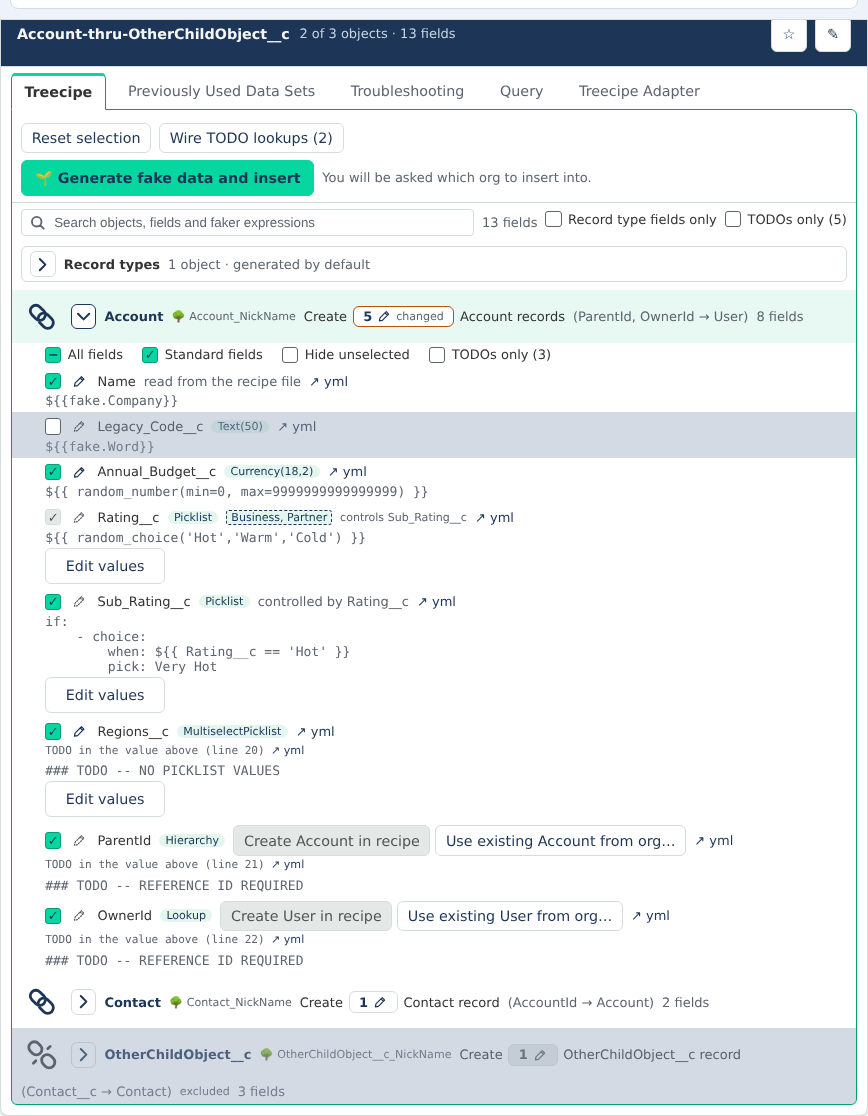
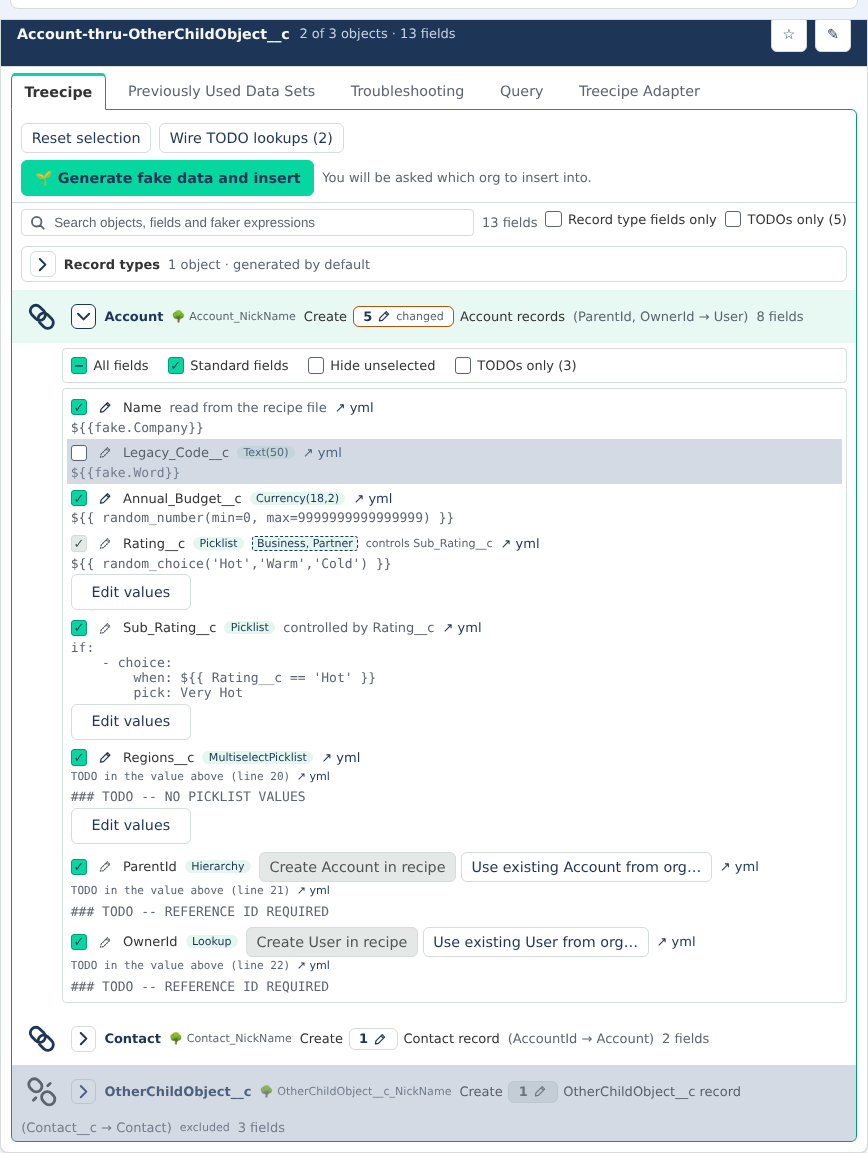
v3.165.0 — Recipe Cockpit: an expanded object's controls and fields sit in two bordered boxes, checkboxes under the ▸ (#494)
The controls row and a new treeFieldsBox are each bordered and padded, and
their left margin is derived from the object header's padding, chain-link
width and gap, so every checkbox starts where the ▸ does. A box with
nothing visible is hidden by CSS :has(). Layout only.

Claude-Session: https://claude.ai/code/session_01QDhJJDvQty7yS1FQrNPP8r

diff --git a/src/treecipe/src/RecipeCockpitService/tests/RecipeCockpitFieldBoxes.test.ts b/src/treecipe/src/RecipeCockpitService/tests/RecipeCockpitFieldBoxes.test.ts
@@ -1,0 +1,143 @@
+import * as matchers from 'jest-extended';
+expect.extend(matchers);
+
+import * as path from 'path';
+
+jest.mock('vscode', () => ({
+    window: { createWebviewPanel: jest.fn(), withProgress: jest.fn(), showWarningMessage: jest.fn(), showInputBox: jest.fn() },
+    commands: { executeCommand: jest.fn() },
+    ViewColumn: { One: 1 },
+    ProgressLocation: { Notification: 15 },
+    Uri: { file: (filePath: string) => ({ scheme: 'file', fsPath: filePath }) }
+}), { virtual: true });
+
+import {
+    RecipeCockpitService,
+    IRecipeCockpitRecipeViewModel,
+    RECIPE_COCKPIT_TREE_OBJECT_HEADER_PADDING_REM,
+    RECIPE_COCKPIT_TREE_OBJECT_INCLUDE_WIDTH_REM,
+    RECIPE_COCKPIT_TREE_HEADER_GAP_REM,
+    RECIPE_COCKPIT_TREE_OBJECT_TOGGLE_OFFSET_REM,
+    RECIPE_COCKPIT_TREE_FIELD_BOX_PADDING_REM,
+    RECIPE_COCKPIT_TREE_FIELD_ROW_INSET_REM,
+    RECIPE_COCKPIT_TREE_FIELD_BOX_MARGIN_LEFT
+} from '../RecipeCockpitService';
+import { runPanelScript } from './RecipeCockpitPanelHarness';
+
+/*
+    #494: an expanded object's controls row and its field rows are each a bordered, padded box, and
+    the checkboxes in both start under the object's ▸. The history workspace's Account tree is used:
+    Account writes eight fields, three of its rows carry a TODO.
+*/
+
+const HISTORY_WORKSPACE_ROOT = path.join(__dirname, 'mocks', 'historyWorkspace');
+const HISTORY_GENERATED_RECIPES_PATH = path.join(HISTORY_WORKSPACE_ROOT, 'treecipe', 'GeneratedRecipes');
+const CURRENT_RUN_FOLDER_NAME = 'recipe-2026-09-20T10-00-00';
+
+const loadRecipe = (): IRecipeCockpitRecipeViewModel => RecipeCockpitService.loadRecipeRunByRuns(
+    RecipeCockpitService.findGeneratedRecipeRuns(HISTORY_GENERATED_RECIPES_PATH),
+    HISTORY_WORKSPACE_ROOT,
+    CURRENT_RUN_FOLDER_NAME
+).recipeViewModel;
+
+const shellHtml = () => RecipeCockpitService.buildWebviewShellHtml('testNonce');
+
+// EVERY RULE WRITTEN FOR EXACTLY THIS SELECTOR, JOINED
+const ruleBody = (selector: string): string => {
+    const html = shellHtml();
+    const bodies: string[] = [];
+    let start = html.indexOf('\n    ' + selector + ' {');
+    while (start > -1) {
+        const open = html.indexOf('{', start);
+        bodies.push(html.slice(open + 1, html.indexOf('}', open)));
+        start = html.indexOf('\n    ' + selector + ' {', open);
+    }
+    expect(bodies.length).toBeGreaterThan(0);
+    return bodies.join('\n');
+};
+
+describe('RecipeCockpitService, an object\'s fields and controls in bordered boxes (#494)', () => {
+
+    describe('the panel script', () => {
+
+        type Panel = ReturnType<typeof runPanelScript>;
+
+        const drawRecipe = (): Panel => {
+            const panel = runPanelScript({});
+            panel.postToPanel({ command: 'recipeData', recipe: loadRecipe(), renderSequence: 3 });
+            panel.postToPanel({ command: 'loadPhase', message: '' });
+            panel.expandAllTrees();
+            return panel;
+        };
+
+        const objectNamed = (panel: Panel, objectApiName: string) => panel.objectElements().find((objectElement: any) => panel.objectNameOf(objectElement) === objectApiName);
+
+        it('puts every field row of an expanded object in one fields box, after the controls row', () => {
+
+            const panel = drawRecipe();
+            const account = objectNamed(panel, 'Account');
+            panel.expandObject(account);
+
+            const bodyChildren = panel.objectBodyOf(account).children;
+            const controlsIndex = bodyChildren.findIndex((childElement: any) => childElement.classList.contains('treeFieldSelectAllRow'));
+            const fieldsBoxes = bodyChildren.filter((childElement: any) => childElement.classList.contains('treeFieldsBox'));
+
+            expect(controlsIndex).toBeGreaterThan(-1);
+            expect(fieldsBoxes).toHaveLength(1);
+            expect(bodyChildren.indexOf(fieldsBoxes[0])).toBe(controlsIndex + 1);
+            expect(fieldsBoxes[0].children.length).toBeGreaterThan(0);
+            expect(fieldsBoxes[0].children.every((childElement: any) => childElement.classList.contains('treeField'))).toBeTrue();
+            expect(panel.findAll(panel.objectBodyOf(account), 'treeField')).toEqual(fieldsBoxes[0].children);
+
+        });
+
+        it('builds neither box for an object that was never expanded', () => {
+
+            const panel = drawRecipe();
+            const account = objectNamed(panel, 'Account');
+
+            expect(panel.findAll(panel.objectBodyOf(account), 'treeFieldsBox')).toEqual([]);
+            expect(panel.findAll(panel.objectBodyOf(account), 'treeFieldSelectAllRow')).toEqual([]);
+
+        });
+
+    });
+
+    describe('the stylesheet', () => {
+
+        it('lines a field checkbox up with the object header\'s ▸', () => {
+
+            expect(RECIPE_COCKPIT_TREE_OBJECT_TOGGLE_OFFSET_REM).toBeCloseTo(RECIPE_COCKPIT_TREE_OBJECT_HEADER_PADDING_REM + RECIPE_COCKPIT_TREE_OBJECT_INCLUDE_WIDTH_REM + RECIPE_COCKPIT_TREE_HEADER_GAP_REM, 6);
+
+            expect(ruleBody('.treeObjectHeader')).toContain(`padding: 0.35rem ${RECIPE_COCKPIT_TREE_OBJECT_HEADER_PADDING_REM}rem;`);
+            expect(ruleBody('.treeObjectHeader, .treeFieldHeader')).toContain(`gap: ${RECIPE_COCKPIT_TREE_HEADER_GAP_REM}rem;`);
+            expect(ruleBody('.treeObjectInclude, .treeObjectIncludeSpacer')).toContain(`width: ${RECIPE_COCKPIT_TREE_OBJECT_INCLUDE_WIDTH_REM}rem;`);
+
+            // MARGIN + 1px BORDER + BOX PADDING + ROW INSET LANDS ON THE ▸
+            const marginMatch = /^calc\(([0-9.]+)rem - 1px\)$/.exec(RECIPE_COCKPIT_TREE_FIELD_BOX_MARGIN_LEFT);
+            expect(marginMatch).not.toBeNull();
+            const marginRem = Number((marginMatch as RegExpExecArray)[1]);
+            expect(marginRem + RECIPE_COCKPIT_TREE_FIELD_BOX_PADDING_REM + RECIPE_COCKPIT_TREE_FIELD_ROW_INSET_REM).toBeCloseTo(RECIPE_COCKPIT_TREE_OBJECT_TOGGLE_OFFSET_REM, 6);
+
+            const boxRule = ruleBody('.treeFieldSelectAllRow, .treeFieldsBox');
+            expect(boxRule).toContain(`margin: 0.35rem ${RECIPE_COCKPIT_TREE_OBJECT_HEADER_PADDING_REM}rem 0.35rem ${RECIPE_COCKPIT_TREE_FIELD_BOX_MARGIN_LEFT};`);
+            expect(boxRule).toContain('border: 1px solid var(--sdt-border);');
+            expect(boxRule).toContain('box-sizing: border-box;');
+
+            expect(ruleBody('.treeFieldsBox')).toContain(`padding: ${RECIPE_COCKPIT_TREE_FIELD_BOX_PADDING_REM}rem;`);
+            expect(ruleBody('.treeField')).toContain(`padding: 0.25rem 0.35rem 0.25rem ${RECIPE_COCKPIT_TREE_FIELD_ROW_INSET_REM}rem;`);
+            expect(ruleBody('.treeFieldSelectAllRow')).toContain(`padding: ${RECIPE_COCKPIT_TREE_FIELD_BOX_PADDING_REM + RECIPE_COCKPIT_TREE_FIELD_ROW_INSET_REM}rem;`);
+
+        });
+
+        it('pads both boxes on every side and draws no box with nothing visible in it', () => {
+
+            expect(RECIPE_COCKPIT_TREE_FIELD_BOX_PADDING_REM).toBeGreaterThan(0);
+            expect(RECIPE_COCKPIT_TREE_FIELD_ROW_INSET_REM).toBeGreaterThan(0);
+            expect(shellHtml()).toContain('.treeFieldSelectAllRow:not(:has(> :not(.hidden))), .treeFieldsBox:not(:has(> .treeField:not(.hidden))) { display: none; }');
+
+        });
+
+    });
+
+});

diff --git a/src/treecipe/src/RecipeCockpitService/RecipeCockpitService.ts b/src/treecipe/src/RecipeCockpitService/RecipeCockpitService.ts
@@ -443,6 +443,15 @@ export const RECIPE_COCKPIT_ADD_FRIEND_ACTION_LABEL = '+ Add friend';
 // THE DEEPEST friends: LEVEL A NESTED ROW IS INDENTED FOR (#467); A DEEPER ONE IS DRAWN AT THIS INDENT, SO A CARD NEVER RUNS OFF A NARROW PANEL
 export const RECIPE_COCKPIT_MAX_DRAWN_NESTING_DEPTH = 8;
 export const RECIPE_COCKPIT_NESTING_INDENT_REM = 1.25;
+// AN OBJECT HEADER IS ITS PADDING, THE CHAIN LINK, ONE GAP, THEN THE ▸ (#494): THE FIELD CHECKBOXES START WHERE THE ▸ DOES
+export const RECIPE_COCKPIT_TREE_OBJECT_HEADER_PADDING_REM = 0.6;
+export const RECIPE_COCKPIT_TREE_OBJECT_INCLUDE_WIDTH_REM = 2.6;
+export const RECIPE_COCKPIT_TREE_HEADER_GAP_REM = 0.5;
+export const RECIPE_COCKPIT_TREE_OBJECT_TOGGLE_OFFSET_REM = RECIPE_COCKPIT_TREE_OBJECT_HEADER_PADDING_REM + RECIPE_COCKPIT_TREE_OBJECT_INCLUDE_WIDTH_REM + RECIPE_COCKPIT_TREE_HEADER_GAP_REM;
+// AN OBJECT'S CONTROLS ROW AND ITS FIELDS ARE EACH A BORDERED BOX (#494), PADDED INSIDE, WITH A ROW'S OWN INSET INSIDE THAT
+export const RECIPE_COCKPIT_TREE_FIELD_BOX_PADDING_REM = 0.25;
+export const RECIPE_COCKPIT_TREE_FIELD_ROW_INSET_REM = 0.25;
+export const RECIPE_COCKPIT_TREE_FIELD_BOX_MARGIN_LEFT = `calc(${Math.round(( RECIPE_COCKPIT_TREE_OBJECT_TOGGLE_OFFSET_REM - RECIPE_COCKPIT_TREE_FIELD_BOX_PADDING_REM - RECIPE_COCKPIT_TREE_FIELD_ROW_INSET_REM ) * 100) / 100}rem - 1px)`;
 export const RECIPE_COCKPIT_ADD_FRIEND_CONFIRM_LABEL = 'Add';
 export const RECIPE_COCKPIT_WIRE_LOOKUP_ACTION_LABEL = 'Wire to…';
 // AN EMPTY LOOKUP'S TWO DECISIONS (#421), EACH NAMING THE PARENT BETWEEN ITS PREFIX AND SUFFIX
@@ -19537,7 +19546,7 @@ ${this.buildPaletteCustomProperties()}
         margin: 0.6rem 0;
         overflow: hidden;
     }
-    .treeObjectHeader, .treeFieldHeader { display: flex; flex-wrap: wrap; align-items: center; gap: 0.5rem; }
+    .treeObjectHeader, .treeFieldHeader { display: flex; flex-wrap: wrap; align-items: center; gap: ${RECIPE_COCKPIT_TREE_HEADER_GAP_REM}rem; }
     .treeHeader {
         display: flex;
         flex-wrap: wrap;
@@ -19740,7 +19749,7 @@ ${this.buildPaletteCustomProperties()}
     .troubleshootingSubTabs.movingRight .troubleshootingSubTab::after, .troubleshootingSubTabs.movingLeft .troubleshootingSubTab.selected::after { transform-origin: right; }
     .troubleshootingSubTabs.movingLeft .troubleshootingSubTab::after, .troubleshootingSubTabs.movingRight .troubleshootingSubTab.selected::after { transform-origin: left; }
     .troubleshootingSubTabs.noMotion .troubleshootingSubTab::after { transition: none; }
-    .treeObjectHeader { padding: 0.35rem 0.6rem; align-items: center; }
+    .treeObjectHeader { padding: 0.35rem ${RECIPE_COCKPIT_TREE_OBJECT_HEADER_PADDING_REM}rem; align-items: center; }
     .treeObject { position: relative; }
     .treeObject.treeObjectNested { border-left: 2px solid var(--sdt-border); }
 ${Array.from({ length: RECIPE_COCKPIT_MAX_DRAWN_NESTING_DEPTH }, (unusedDepth, depthIndex) => `    .treeObject.treeObjectDepth${depthIndex + 1} { margin-left: ${( depthIndex + 1 ) * RECIPE_COCKPIT_NESTING_INDENT_REM}rem; }`).join('\n')}
@@ -19755,8 +19764,8 @@ ${Array.from({ length: RECIPE_COCKPIT_MAX_DRAWN_NESTING_DEPTH }, (unusedDepth, d
     .treeObjectInclude, .treeObjectIncludeSpacer {
         box-sizing: border-box;
         flex: none;
-        width: 2.6rem;
-        height: 2.6rem;
+        width: ${RECIPE_COCKPIT_TREE_OBJECT_INCLUDE_WIDTH_REM}rem;
+        height: ${RECIPE_COCKPIT_TREE_OBJECT_INCLUDE_WIDTH_REM}rem;
     }
     .treeObjectInclude { position: relative; z-index: 2; padding: 0.15rem; }
     .treeObjectIncludeSpacer { display: inline-block; }
@@ -19927,8 +19936,16 @@ ${Array.from({ length: RECIPE_COCKPIT_MAX_DRAWN_NESTING_DEPTH }, (unusedDepth, d
     .treeFriendChip { display: inline-flex; align-items: center; gap: 0.25rem; font-size: 0.85em; }
     .treeChipEmoji { flex: none; }
     .treeObjectBody { padding-bottom: 0.25rem; }
-    .treeField { padding: 0.25rem 0.6rem 0.25rem 2.1rem; }
-    .treeFieldSelectAllRow { padding: 0.25rem 0.6rem 0.25rem 2.1rem; display: flex; flex-wrap: wrap; align-items: center; gap: 0.25rem 1.2rem; }
+    .treeFieldSelectAllRow, .treeFieldsBox {
+        box-sizing: border-box;
+        margin: 0.35rem ${RECIPE_COCKPIT_TREE_OBJECT_HEADER_PADDING_REM}rem 0.35rem ${RECIPE_COCKPIT_TREE_FIELD_BOX_MARGIN_LEFT};
+        border: 1px solid var(--sdt-border);
+        border-radius: 4px;
+    }
+    .treeFieldSelectAllRow:not(:has(> :not(.hidden))), .treeFieldsBox:not(:has(> .treeField:not(.hidden))) { display: none; }
+    .treeFieldsBox { padding: ${RECIPE_COCKPIT_TREE_FIELD_BOX_PADDING_REM}rem; }
+    .treeField { padding: 0.25rem 0.35rem 0.25rem ${RECIPE_COCKPIT_TREE_FIELD_ROW_INSET_REM}rem; border-radius: 3px; }
+    .treeFieldSelectAllRow { padding: ${RECIPE_COCKPIT_TREE_FIELD_BOX_PADDING_REM + RECIPE_COCKPIT_TREE_FIELD_ROW_INSET_REM}rem; display: flex; flex-wrap: wrap; align-items: center; gap: 0.25rem 1.2rem; }
     .treeFieldSelectAllCheck { display: inline-flex; align-items: center; gap: 0.4rem; }
     .treeFieldSelectAllLabel { cursor: pointer; }
     .treeFieldSelectAllCheck.disabled .treeFieldSelectAllLabel { color: var(--sdt-muted); cursor: not-allowed; }
@@ -24419,11 +24436,16 @@ ${Object.entries(RECIPE_COCKPIT_VERB_BUTTON_VERBS).map(([className, verb]) => ` 
             if (hasSelectableFields || treeObjectState.todoCount > 0) {
                 treeObjectState.bodyElement.appendChild(buildSelectAllFieldsElement(treeObjectState, hasSelectableFields));
             }
-            treeObjectState.fieldStates.forEach(function (fieldState) {
-                fieldState.rowElement = buildTreeFieldRow(treeObjectState, fieldState);
-                applyTreeFieldVisibility(fieldState);
-                treeObjectState.bodyElement.appendChild(fieldState.rowElement);
-            });
+            // THE FIELDS ARE ONE BORDERED BOX (#494), THEIR CHECKBOXES UNDER THE OBJECT'S ▸
+            if (treeObjectState.fieldStates.length > 0) {
+                const fieldsBoxElement = createElement('div', 'treeFieldsBox');
+                treeObjectState.fieldStates.forEach(function (fieldState) {
+                    fieldState.rowElement = buildTreeFieldRow(treeObjectState, fieldState);
+                    applyTreeFieldVisibility(fieldState);
+                    fieldsBoxElement.appendChild(fieldState.rowElement);
+                });
+                treeObjectState.bodyElement.appendChild(fieldsBoxElement);
+            }
             treeObjectState.isBodyBuilt = true;
             if (drawObjectFieldSelection(treeObjectState)) { drawStructureMatchCount(treeObjectState.treeState); }
         }

diff --git a/src/treecipe/src/RecipeCockpitService/tests/RecipeCockpitExcludeFields.test.ts b/src/treecipe/src/RecipeCockpitService/tests/RecipeCockpitExcludeFields.test.ts
@@ -922,7 +922,8 @@ describe('RecipeCockpitService, unticking fields in the Treecipe tab (#220)', ()
             expect(panel.findAll(panel.objectBodyOf(contact), 'treeFieldAll')).toEqual([]);
             expect(panel.findAll(panel.objectBodyOf(contact), 'treeFieldNone')).toEqual([]);
             expect(panel.objectBodyOf(contact).children[0].classList.contains('treeFieldSelectAllRow')).toBeTrue();
-            expect(panel.objectBodyOf(contact).children[1].classList.contains('treeField')).toBeTrue();
+            expect(panel.objectBodyOf(contact).children[1].classList.contains('treeFieldsBox')).toBeTrue();
+            expect(panel.objectBodyOf(contact).children[1].children[0].classList.contains('treeField')).toBeTrue();
 
         });
 

diff --git a/CLAUDE.md b/CLAUDE.md
@@ -346,6 +346,7 @@ User runs command (Cmd+Shift+P)
 - **Every Recipe Cockpit confirmation is asked INSIDE the panel, and the host keeps the decision** (#349) — where the bullets above say "a host modal" or "the modal", the cockpit now calls `RecipeCockpitService.confirmInPanel(message, { detail, isDestructive? }, ...buttonLabels)`, never `showWarningMessage` with `modal: true` (`RecipeCockpitConfirmDialog.test.ts` scans the source for one, and counts the 21 `confirmInPanel` call sites and the one `confirmInPanelWithCheckbox`). It answers exactly as the modal did — the label chosen or `undefined` — so every executor still plans and checks its guards again AFTER the answer. `confirmInPanelWithCheckbox` (#402, only Deploy fields… calls it) adds `checkboxLabel` to the request; the panel draws one `check` button and its label between the body and the buttons, in the Tab cycle, and answers `isChecked` beside `choice`; it resolves `{chosenLabel, isChecked}`, `isChecked` true only for a box ticked under an offered button, and an `isChecked` that is present and not a boolean is Cancel for either call. It posts `confirmRequest {confirmationId, renderSequence, title, summary, badge?, warnings, sections, buttons, isDestructive}` (#457: `confirmInPanel` takes an `IRecipeCockpitConfirmContent` — a summary and warnings always on screen, a badge for the target org's type, and sections `{title, count?, lines}` folded until opened, their lines built on first open; there is no `detail`. `RecipeCockpitConfirmContent.buildRequestParts` splits line breaks and drops empty sections and blank warnings; the panel's `readConfirmContent` answers Cancel for any part out of shape; `drawConfirmLines` draws each warning and section line as its own bullet (a summary only when it holds more than one statement), a line ending with ":" leading in the indented lines under it as a nested list; a section toggle is in the Tab cycle between the body and the check box; an edited expression the Treecipe Adapter will run is a warning, never only folded; the executor suites read the parts flattened into one `detail` through `RecipeCockpitConfirmContent.flatten`): every string the host's, the id `crypto.randomBytes(16)` hex held in the static `pendingConfirmation` (outside the panel state, since replacing that state is a Cancel). The panel draws it in `#cockpitDialogHost`, a static sibling after `#cockpitBody` (so `buildWebviewShellHtml` still takes only a nonce), with `textContent` only: `role="dialog"`, or `"alertdialog"` when `isDestructive` (an org write or a file overwrite with no undo: insert, deploys, assign, scratch org, retrieve, an overwriting Generate permission set), `aria-modal`, a `tabindex="0"` body that scrolls (`max-height: 60vh`, `white-space: pre-wrap`), the host's buttons (first `primary`) then Cancel, the rest of the cockpit `inert`, focus on Cancel for an alertdialog and the first button otherwise, Tab trapped, Escape Cancel, focus back to the opener. It answers `confirmResponse {confirmationId, choice}`; the router routes it only under the pending id, and `settlePendingConfirmation` spends the id once and reads any `choice` that is not an integer index of an offered button as Cancel. ONE at a time: a newer request answers the open one Cancel. `cancelPendingConfirmation` runs on `ready` (and a confirmation is never replayed), on a new model post, on a failure to draw (not a `runtime` throw), on dispose and on a reopen; with no acknowledged model, or no panel, `confirmInPanel` is Cancel at once, and the panel answers Cancel to a request for another `renderSequence` without drawing it. A HIDDEN panel has no document (`retainContextWhenHidden` is off), so `confirmInPanel` on a panel whose `visible` is `false` reveals it, warns `RECIPE_COCKPIT_CONFIRM_HIDDEN_REFUSAL` and is Cancel, and `onDidChangeViewState` to hidden cancels an open one at once — otherwise the action would wait on a dropped post while holding its run lock. Nothing reloads under an open confirmation: the generate-only run whose reload #349 held in `deferredReloadFocus` (run by `scheduleReloadHeldForConfirmation`) is gone with #375, and both went with it. `routePanelMessage` reads the static `pendingConfirmation` for `confirmResponse` — the one place it reads state outside its arguments; `settlePendingConfirmation` checks the id again. Dialog-only text is not run through `escapeForNotification` (textContent makes it inert; the escapes would show); text that also reaches a notification still is. The backdrop is `--sdt-dialog-backdrop`, composited by the contrast test with the dialog's edge held to 3:1. The palette commands (`ExtensionCommandService`) keep VS Code's modal, and quick picks and input boxes stay VS Code UI. A confirmation's ORG is its own part (#480, `IRecipeCockpitConfirmOrg {alias?, username}` on the content, one line each, never a `Org:` line of the summary; the deploy, retrieve and assignment builders take it instead of a label), drawn on its own `confirmOrg` line: the alias bold in `--sdt-accent`, the username monospace in `--sdt-muted`, then the badge. **Change org…** (`RECIPE_COCKPIT_CONFIRM_CHANGE_ORG_LABEL`, `secondary` compact, in the Tab cycle before the section toggles) is drawn only when the request carries `canChangeOrg`, which `askInPanel` sets only for options with `org` AND `changeOrg {restartMessage, isSandboxOnly}` asked INSIDE a panel action: every routed action, a notification's follow-up included, runs through `runPanelAction` (a test holds `executePanelAction` to its one caller), which gives only the kinds in `RECIPE_COCKPIT_ORG_CHANGE_ACTION_KINDS` an `AsyncLocalStorage` context and runs every other kind under `exit()`, because the first `run()` turns on Node's async context tracking for the whole extension host. Its answer, `confirmResponse {confirmationId, changeOrg: true}`, is Cancel to the action; `settlePendingConfirmation` records the restart on that context, and only once the action has ENDED (its locks released in its own finally) `changeOrgAndRestart` refuses while anything holds the selection (`RECIPE_COCKPIT_CHANGE_ORG_BUSY_REFUSAL`), asks through `promptAndSelectDataOrg` (its `selectionBeforePrompt` lets it replace the selection it was asked over, and only that one; `sandboxOnlyReason` for a write) under `isOrgPromptOpen`, and routes `restartMessage` again through `routePanelMessage` (an `orgIndex` key gets the new selection's index), so the action re-plans and asks again against the new org. Offered on the four retrieves (read), the four deploys, Assign permission sets… and the tree insert (writes); NOT on the Treecipe Adapter's, whose held records and snapshots belong to one org, which show the org part only. The executor suites answer through `tests/RecipeCockpitConfirmationAnswers.ts`, which hands `confirmInPanel` to their `showWarningMessage` mock with `inPanel: true`
 - **The Recipe Cockpit keeps the reader's place in `vscodeApi.setState`, and spends it ONCE** (#222) — `retainContextWhenHidden` stays off, so a hidden tab's document is thrown away and the host replays the model on `ready`; what the READER did lived only in the page. The panel saves NAMES only (run, scroll offset, whether the toolbar's org picker was in use, and per card: opened by the reader, tab, each tab's search as typed (`searchTexts`), Treecipe objects expanded by api name + nickname, open picklist rows, and whether the Record types section is expanded as the optional `isRecordTypesExpanded`; neither the Target Org Manager nor the Treecipes section folds, #355, #364), never a path, value or org. `readSavedPanelPlace` reads it once at script start inside a `try`; `takeRestorablePlace` spends it on the document's FIRST `recipeData` and applies it only when `selectedRunFolderName` matches, and nothing is saved before the place is spent (or the default draw would overwrite it). A LATER model in the same document of the run already on screen (a generate, the tree insert, Add friend reloading it) takes the place on screen instead (`takeSameRunPlace`, built by the same `buildPanelPlace` as a save) BEFORE `resetPanelState` drops it, and restores it the same way (#225); another run, or a model after a failed draw (`renderedSequence` null), starts fresh. Everything that asks the host (a picklist row, the org picker) is restored AFTER `rendered`, beside `focusTree`, which is applied after the restore and so wins; a picker the reader never used still lists no orgs. `savePanelPlace` is skipped while `isRestoringPlace`, so a restore saves once. A restore never posts `loadDataOrgs` by itself. The place is version 2 (#255): a version 1 place is read through `RECIPE_COCKPIT_TREE_TAB_RENAMES` (`structure` → `treecipe`, `dataByOrg` → `compare`, selected tab and search keys), by `normalizePanelPlace` and by the panel's `upgradePlace`, rather than dropped. A place of EITHER version can name a tab since removed (`RECIPE_COCKPIT_REMOVED_TREE_TABS`, `versions` since #265, `compare` and `dataByOrg` since #266, `recordTypes` since #321, applied after the renames on both sides; a card saved on `recordTypes` also opens with the Record types section expanded): its card opens on Treecipe, its search is dropped rather than moved onto another tab, and `expandedVersionRunFolderNames`, `statusFilter` and `expandedDataObjectApiNames` are no longer in the shape, so they are ignored. Removing another tab is adding its name to that list; the place version did not change. A picklist's open state is on the FIELD (`isPicklistExpanded`). Every saved field is type-checked and name-keyed lookups have no prototype; `RECIPE_COCKPIT_PANEL_PLACE_VERSION` is the shape, and a place of another shape is not read. Re-running **Open Recipe Cockpit** on an open panel for the same workspace reloads the run on screen (`loadRecipeRunByRuns` falls back to the newest when it is gone), keeps `dataOrgRequestSequence`, and carries no comparison, since there is none (#266). The same place is ALSO kept in `context.workspaceState` (`RECIPE_COCKPIT_PANEL_PLACE_STATE_KEY`, #230) so it survives a close and a window reload: every `savePanelPlace` posts `savePlace`, routed only for the run of the confirmed-drawn model and written at most once per `RECIPE_COCKPIT_PANEL_PLACE_PERSIST_DELAY` (500 ms) — never only on dispose, since a reload may not run `onDidDispose`, which flushes what is waiting. A panel opened with nothing to carry reads it through `normalizePanelPlace` (field-by-field, run a plain folder NAME, only the shape's fields kept, so no path, value or org is ever written), requests that run, and hands it over as `restorePlace` on the POSTED copy and every replay until that model's `rendered`; a run that is gone or a place that cannot be read is removed and the newest run opens. The panel's own `getState` wins over it. There is NO `WebviewPanelSerializer` and no `onWebviewPanel:` activation event, on purpose: a reload must never load a run or contact an org on its own, and a test asserts both
 - **A tree icon excludes an object and its children from GENERATION, and the recipe file is never written** (#219) — each Treecipe row of a card with a folder draws a `<button class="treeObjectInclude">` as the row's FIRST child, in front of the `▸` (#257); a row with no button (an iteration, or a card with no folder) gets an `aria-hidden` `treeObjectIncludeSpacer` of the same width, so every `▸` and name in a card lines up. Its glyph is the cockpit's first INLINE SVG, a CHAIN LINK: built by the panel script with `document.createElementNS` (one `<path>`, rotated by `RECIPE_COCKPIT_TREE_GLYPH_TRANSFORM`, whose `d` is `RECIPE_COCKPIT_TREE_LINKED_GLYPH_PATH` while included and `RECIPE_COCKPIT_TREE_BROKEN_GLYPH_PATH` once excluded, swapped on every `objectSelection` redraw), never from a markup string, stroked by CSS only from `--sdt-*` (joined `--sdt-accent` included, broken `--sdt-muted` excluded, broken and dashed auto-excluded) and fetching nothing, so the CSP, the nonce-only shell builder and `localResourceRoots: []` are unchanged. That is the rule for any later glyph: `createElementNS` and palette CSS, never an icon font, an image or an interpolated SVG string. The shell's only URL is the SVG namespace string, which the external-asset test allows by name. The state is never colour alone: shape, `aria-pressed`, title and a `treeExclusion` label all say it, and the click never toggles the row. An INCLUDED object named in the cascade's `disabledLookups` (another parent keeps it, its lookup to the excluded one is cut) is drawn IMPACTED (#449): `RECIPE_COCKPIT_TREE_IMPACTED_GLYPH_PATH` (one link joined, one pulled away) in `--sdt-changed`, the label `parent <Parent> excluded`, a title naming the cut lookups, `aria-pressed` still `true` and the icon still a click to exclude; the header count adds `· N impacted` and the Insert order line `(impacted)`. The panel's `indexObjectImpacts` reads it from `disabledLookups` alone (self-lookups and excluded objects skipped), so nothing new is posted or stored, and only the object whose own lookup was cut is marked, never its descendants The CASCADE is the host's (`RecipeCockpitObjectSelection.computeObjectSelection`, which imports nothing): it is the least set reachable from what the exclusion does not touch, so an object stays included if it is not a descendant of an excluded object, is a root, or keeps an included parent, and a self-lookup is never "another parent". Only DIRECT exclusions are stored, in `workspaceState` (`RECIPE_COCKPIT_OBJECT_SELECTION_STATE_KEY`, by tree FOLDER, names checked with `SalesforceApiName`, written with `Object.fromEntries`), so re-including a parent brings back exactly what it cut off. `applyObjectSelections` sets `tree.objectSelection` at post time ONLY when something is excluded, so an untouched card posts and generates exactly as before. Its counts cover the objects the card draws. The panel posts `setObjectIncluded {treeKey, objectApiName, nickname?, included}`, matched against `selectableObjectKeys` (inside `IRecipeCockpitTreeHistoryAllowLists`, so pending/active and reset with the rest). An object `parseRecipeSource` marks `hasIndistinctOccurrences` is never selectable. The host posts `objectSelection` tagged with `renderSequence`, and the panel redraws that card in place. An excluded row is dimmed by the `.excluded` class: an `::after` layer of `--sdt-excluded-overlay` (rgba, the palette's one non-hex token, composited by the contrast test) with `pointer-events: none`, under the icon's `z-index: 2`. The generate button on such a card resolves the copy at the click (`resolveRunFakerFilteredRecipe`) through `RecipeCockpitRecipeWriter.buildFilteredRecipe`, which drops excluded blocks and every later occurrence nested under them, drops lookups to them (by the wrapper's lookups or by a nickname value), moves an orphaned faker-js friend under its closest remaining lower-level parent (#46's rule, levels from the wrapper's `RelationshipDetail.level`) wired by nickname, or to the top, and reads its result back. Anything it refuses is a warning naming the tree, never the whole tree generated. The copy rides as the command's SECOND argument, which `runFakerGenerationByRecipeFile` type-checks and accepts only with a recipe path. It loads the recipe first, runs the copy from a temporary folder outside the workspace, keeps it as `filteredRecipe-*` beside `originalRecipe-*`, and records `excludedObjectApiNames` in `datasetSource.json`. The tree insert leaves an excluded object out too (`listTreeInsertObjectApiNames`), so readiness never checks it and nothing inserts it
+- **An expanded object's controls row and its fields are two bordered boxes, and every checkbox in them starts under the object's ▸** (#494) — `setTreeObjectExpanded` appends field rows to one `treeFieldsBox` after the `treeFieldSelectAllRow`; both boxes take `RECIPE_COCKPIT_TREE_FIELD_BOX_MARGIN_LEFT`, derived from the header's padding, chain-link width and gap constants, so a change to the object header moves the boxes with it. A box with nothing visible is hidden by CSS `:has()`, never by script
 - **A field checkbox leaves a field out of GENERATION and of the tree insert, and the host decides which fields may be unticked** (#220) — each Treecipe field row with a recipe line, on a card with a folder, draws a `<button role="checkbox" class="treeFieldInclude">` with `aria-checked`. An expanded object draws one **All fields** box above its field rows (#410, replacing #220's All / None, which #343 hid): `createButton('check', 'treeFieldInclude treeFieldSelectAll')` with a label, `aria-checked` `true`/`false`/`mixed` counted over the fields with a recipe line that no lock holds (so after "untick all" it reads unticked while locked fields stay ticked), hidden while every field is locked, disabled on an excluded object, not drawn for an iteration or a card `canSelectFields` refuses; a click posts `setAllFieldsIncluded` (`included` is `false` only from `true`) and the box redraws only from the host's answer. A **Standard fields** box beside it (#477) is the same box over the fields `RecipeCockpitService.isStandardFieldApiName` reads as standard (not ending in `__c`, case-insensitive; the panel injects the same suffix): it posts `setAllFieldsIncluded` with `fieldScope: 'standard'` (any other scope is refused) and the host changes only standard fields, never a custom field's tick, and never frees a controlling field whose ticked dependent is custom. Right of it, **Hide unselected** (#483) is the object's own panel-only filter over the rows whose box reads unticked (`isTreeFieldUnticked`, a `parent excluded` lock included): it refilters that object alone, turns itself off when nothing is unticked or the object is excluded, and is the place's optional `hideUnselectedObjectKeys`; the insert confirmation's **Left out, per object** section (`buildInsertLeftOutLines`) lists excluded objects and, per object, every field left out (unticked, or a lookup cut by an excluded parent), the rows Hide unselected hides. The row ends with the object's own **TODOs only** (panel-only, a click refilters that object alone through `filterTreeObjectRows` and never re-runs the card's expand budget, the place's optional `todosOnlyObjectKeys`, disabled with `RECIPE_COCKPIT_NO_OBJECT_TODOS_NOTE` on an object with no TODO), so it is built for an object with a selectable field OR a TODO, and each box hides on its own. The panel posts `setFieldIncluded {treeKey, objectApiName, nickname?, fieldApiName, included}`, matched against `selectableFieldKeys` (inside `IRecipeCockpitTreeHistoryAllowLists`, pending/active like the rest, built from `listSelectableFieldApiNames`: fields with a `lineNumber`), `setAllFieldsIncluded` against `selectableObjectKeys`, and `resetTreeSelection {treeKey}` against `nameableTreeKeys`. The unticked fields are stored beside #219's exclusions under the same key, now `RECIPE_COCKPIT_OBJECT_SELECTION_VERSION` 2 (`excludedFieldApiNamesByFolderName`: folder → object → fields, written with `Object.fromEntries`, every name checked with `SalesforceApiName` on read; a version 1 entry reads as nothing unticked). `buildObjectFieldSelection` is the ONE derivation of what generation leaves out and what is LOCKED: `parent excluded` (a lookup the object cascade disabled — left out by the cascade, drawn unticked), `record-type sections depend on it` (`RecordTypeId` while `hasRecordTypeSections`, which `parseRecipeSource` reads through `RecipeCockpitRecipeWriter.hasRecordTypeSections`), and `controls <Dependent>` (a controlling field while a dependent is ticked, found to a fixed point so a chain holds). A lock outvotes what is stored, the handler re-derives before it writes (a forged untick of a locked field, or of a field of an excluded object, writes nothing), and the panel only draws `tree.fieldSelection`, which is set only on a card with a field unticked or locked and lists only those objects. `buildFilteredRecipe` takes `excludedFieldApiNamesByObject` and drops each field's own line and continuation lines from every kept occurrence (and a `fields:` line left empty, which loads as `null`); `extractObjectBlock`, `listCreateBlockFieldApiNames` and the one-scan batch take the same list, so the parent picker reads only ticked fields, and `buildCreateReadiness` refuses an unticked field `findRequiredFieldApiNames` says the org requires. `datasetSource.json` records `excludedFieldApiNamesByObject`. A selection change re-checks only that folder's insert targets (`refreshDataOrgReadinessForFolder`) against the selection's answered org type and the describe cache, connecting lazily only on a cache miss and never re-querying the Organization row; a stale answer is dropped by `dataOrgRequestSequence`, and the panel merges readiness by key. A required lookup is never an unticked-required reason (the insert fills it), and a cut with every field unticked drops its `fields:` line too. **Reset selection** (header, shown only while the card leaves something out) clears the folder's objects and fields after a host modal
 - **A count box sets how many records an object gets, and the recipe file is never written** (#255) — each Treecipe object row on a card with a folder, not an iteration and not `hasIndistinctOccurrences`, whose first occurrence has exactly one plain whole-number `count:` (`RecipeCockpitRecipeWriter.readObjectCount`, carried on the object model as `recordCount`, with `countParentObjectApiName` for a nested friend), reads as a sentence (#438): `Create`, a `secondary` compact `treeRecordCountButton` holding the count and the pencil glyph, then `<Object> records per <Parent>` for a faker-js friend (records per parent record, which is what `count` means there) or `<Object> records` otherwise (`record` for a count of 1), the button's `aria-label` the whole sentence, marked `changed` with a `recipe: N` tooltip while the count differs from the recipe's, disabled while the object is excluded. A click swaps in an `input.treeRecordCountInput` built on the first open (`ensureRecordCountEditor`); Enter or blur commits once, Escape cancels, and the editor is closed before focus moves so its blur cannot commit again; a selection redraw skips a row whose count and exclusion it already drew. The panel accepts only `/^[1-9][0-9]*$/` that is a safe integer and posts `setObjectCount {treeKey, objectApiName, nickname?, count}`; the router holds the NUMBER to `RecipeCockpitRecipeWriter.isRecordCount` again, matches `selectableObjectKeys`, the drawn nickname and a `recordCount`, and refuses an excluded object. Counts are stored beside the #219/#220 selection under the same key, now `RECIPE_COCKPIT_OBJECT_SELECTION_VERSION` 3 (`objectCountsByFolderName`: folder → object → count, written with `Object.fromEntries`, names checked with `SalesforceApiName` on read; a version 1 or 2 entry reads as no counts), and a count equal to the recipe's own is NOT stored, so `tree.objectCounts` is set only when one differs and an untouched card posts and generates exactly as before. An excluded object keeps its stored count (`buildTreeObjectCounts`) but `listObjectCountsByObject` leaves it out, so re-including it brings the count back. `buildFilteredRecipe`'s `objectCountsByObject` writes each count on the FIRST occurrence's `count:` line at that occurrence's own depth (a moved friend's at its new depth), reads the copy back with exactly those counts (`appliedCounts`), and a count already equal changes nothing. The generate button's copy and `datasetSource.json` carry `objectCountsByObject` only when non-empty. Reset selection clears the folder's counts too.
 - **Every occurrence of an object written more than once keeps its OWN settings, and a card draws it under the occurrence that holds it** (#467) — an iteration (a self-lookup's copy, a friend added under it, a #194 record type block) is placed by `RecipeCockpitService.placeTreeIterations`: right under the occurrence whose `friends:` block holds it, after what is listed under that one, in file order, with `nestingDepth` on its tree entry (the panel's `treeObjectDepth<n>` indent, capped at `RECIPE_COCKPIT_MAX_DRAWN_NESTING_DEPTH`); a block sharing its first block's parent, or one whose parent the card cannot name, follows its first occurrence at its depth; first occurrences keep insert order. The self-lookup's button reads `+ Add friend` (`RECIPE_COCKPIT_ADD_FRIEND_ACTION_LABEL`). The host sees each occurrence through `listTreeOccurrences` (the first, then each iteration the card lists, built by `buildIterationObjectViewModel` with that occurrence's lines, values and `recordCount`), and `readOccurrenceNickname` is the ONE rule for its key: every occurrence of an object with iterations has its nickname, an object written once none, so a card without iterations posts and stores exactly what it did. Unticked fields, counts and rules switches are stored under `RecipeCockpitRecipeWriter.buildOccurrenceKey` (`"<Object>\n<Nickname>"`) beside object keys, version unchanged; an occurrence reads its own key, else its object's (`pickStoredForOccurrence`), so an untick or rules switch from before #467 applies to every copy until `prepareOccurrenceSelectionKey` splits it (`splitObjectWideEntry`) on the first change of one copy; a COUNT from before #467 was always the first occurrence's and stays so (`buildTreeObjectCounts` reads an iteration's own key only, the split copies it to the first only). `readTreeSelections` holds stored keys to `SalesforceApiName.isOccurrenceKey` -- `isApiName` there dropped every occurrence key on the next read. `readOccurrenceNickname` gives no nickname to an object whose nicknames are not all api names (a hand-edited recipe), so it keeps object keys. `listTreeOccurrences` is cached per tree and objects map (a load's builders share it) and takes `onlyObjectApiName` for a message about one object; never rebuild it per field or per object. Every per-occurrence entry the host posts (`fieldSelection.objects`, `objectCounts`, `fixedValues`, `validationRulesOff`) carries `nickname` exactly then, and the panel looks each up by `occurrenceNicknameOf`, the same rule. A posted nickname must be one of the object's occurrences the card on screen lists (`resolvePostedOccurrence`, `findDrawnOccurrenceField`), else nothing is written. `buildFilteredRecipe` takes occurrence keys in every object-keyed map (`isOccurrenceKey`; `SalesforceApiName.isOccurrenceKey` for Run Faker's check) and picks an occurrence's own entry over its object's (`pickForOccurrence`). A pin of one occurrence (`pinField`'s nickname) is a fixed-values entry with `scopeNickname` and exactly that recorded occurrence; it carves the occurrence out of a pin of every occurrence (`upsertEntry`), its Clear restores only it (`restorePinnedField`'s `isScopedToRecordedOccurrences`), a wider Clear skips occurrences with their own pin, and `listValuesByObject` lists every pin under the occurrence key of each occurrence it holds. A pin from before #467 still holds and clears every occurrence it recorded; #421's org-record pin still writes every occurrence. The insert's readiness reads every field ANY copy unticks (`listExcludedFieldApiNamesByObject`), a deploy leaves out only what EVERY copy unticks, and the Treecipe Adapter reads the first occurrence's edit. A picklist's value tiles (#465) post the row's nickname on `loadPicklistValues` and `setPicklistValueChoice`, so they read and write one occurrence like the edit button. Exclusion stays per object

diff --git a/CHANGELOG.md b/CHANGELOG.md
@@ -1,5 +1,14 @@
 # Change Log
 
+## [3.165.0] - Recipe Cockpit: an expanded object's controls and fields sit in two bordered boxes, checkboxes under the ▸
+
+[#494](https://github.com/jdschleicher/Salesforce-Data-Treecipe/issues/494). An expanded object's controls row and field rows ran straight into the next object's header, so nothing showed where one object's fields ended, and the field checkboxes were indented a fixed 2.1rem, about 1.6rem left of the object's ▸.
+
+- **Two boxes.** The controls row (All fields · Standard fields · Hide unselected · TODOs only) is a bordered box, and every field row of the object now sits in a second one, `treeFieldsBox`. Both are drawn in `--sdt-border`, padded on every side, with space between them and around them, so no checkbox, row hover or excluded-field overlay touches an edge. A box with nothing visible in it (every control hidden, or every field hidden by a search or filter) is not drawn (`:has()`).
+- **Checkboxes under the ▸.** The header's padding, the chain-link width and the header gap are now named constants (`RECIPE_COCKPIT_TREE_OBJECT_HEADER_PADDING_REM`, `RECIPE_COCKPIT_TREE_OBJECT_INCLUDE_WIDTH_REM`, `RECIPE_COCKPIT_TREE_HEADER_GAP_REM`), and the boxes' margin is derived from them (`RECIPE_COCKPIT_TREE_FIELD_BOX_MARGIN_LEFT`), so each field's checkbox and the All fields box start where the ▸ does, at every nesting depth, on an iteration and on the ungrouped card.
+- **Layout only.** No message, model or place field changed, and no colour pair was added.
+- **Tests.** `RecipeCockpitFieldBoxes.test.ts` (the fields box holds every field row, after the controls row; a never-expanded object builds neither box; the stylesheet's offsets add up to the ▸'s, the padding and border rules, the empty-box rule); `RecipeCockpitExcludeFields.test.ts` reads a field row inside the box.
+
 ## [3.164.0] - Recipe Cockpit: the version and GitHub icon are one CHANGELOG button, and the help closes with ✕
 
 [#487](https://github.com/jdschleicher/Salesforce-Data-Treecipe/issues/487). Only the GitHub icon at the top right opened the CHANGELOG, though the version beside it read as part of the link; the open help could only be closed from **?**; and **?** was taller than its neighbours and looked the same open or closed.
